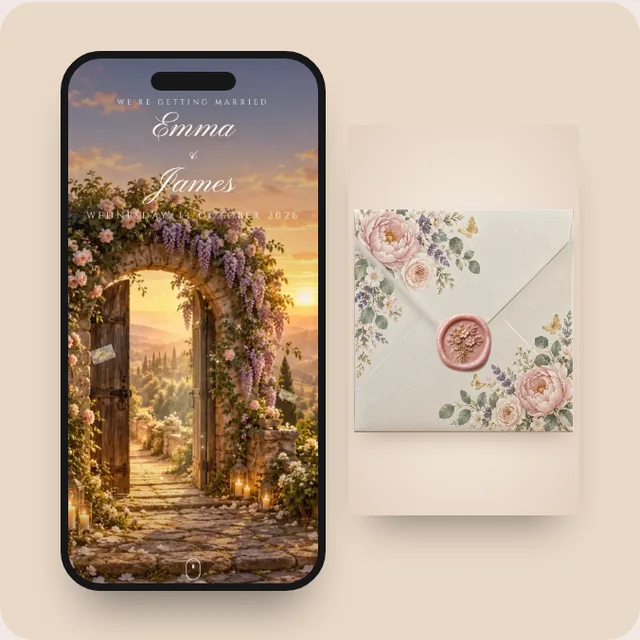
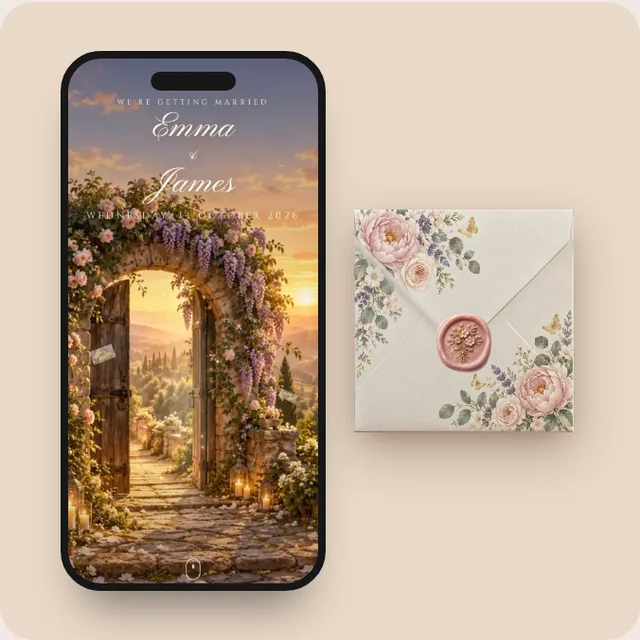
Shop: readable card buttons, envelopes without their backdrop, 9 designs on the home page with a See all page
Claude-Session: https://claude.ai/code/session_01U7WGSCWKm6rLKHHJsdni57

diff --git a/shopify-theme/assets/vellum.css b/shopify-theme/assets/vellum.css
@@ -78,7 +78,11 @@
 @media (min-width: 640px) { .v-card__tag { font-size: .875rem; -webkit-line-clamp: 4; } }
 .v-card__price { margin: .5rem 0 0; font-weight: 500; }
 .v-card__try { display: grid; place-items: center; margin-top: 1rem; height: 40px; text-decoration: none; border: 0; border-radius: .75rem; background: #1f2620; color: #fff; font: 600 .7rem/1 var(--v-sans); letter-spacing: .22em; text-transform: uppercase; cursor: pointer; transition: background .3s; }
+.v .v-card__try, .v .v-card__try:hover { color: #fff; }
 .v-card__try:hover { background: #2c372e; }
+.v-more { display: flex; justify-content: center; margin: 3rem 0 0; }
+.v-btn--line { background: transparent; border-color: var(--v-ink); color: var(--v-ink) !important; }
+.v-btn--line:hover { background: var(--v-ink); color: #fff !important; }
 @media (min-width: 640px) { .v-card__try { height: 48px; font-size: .75rem; } }
 
 /* demo window */
